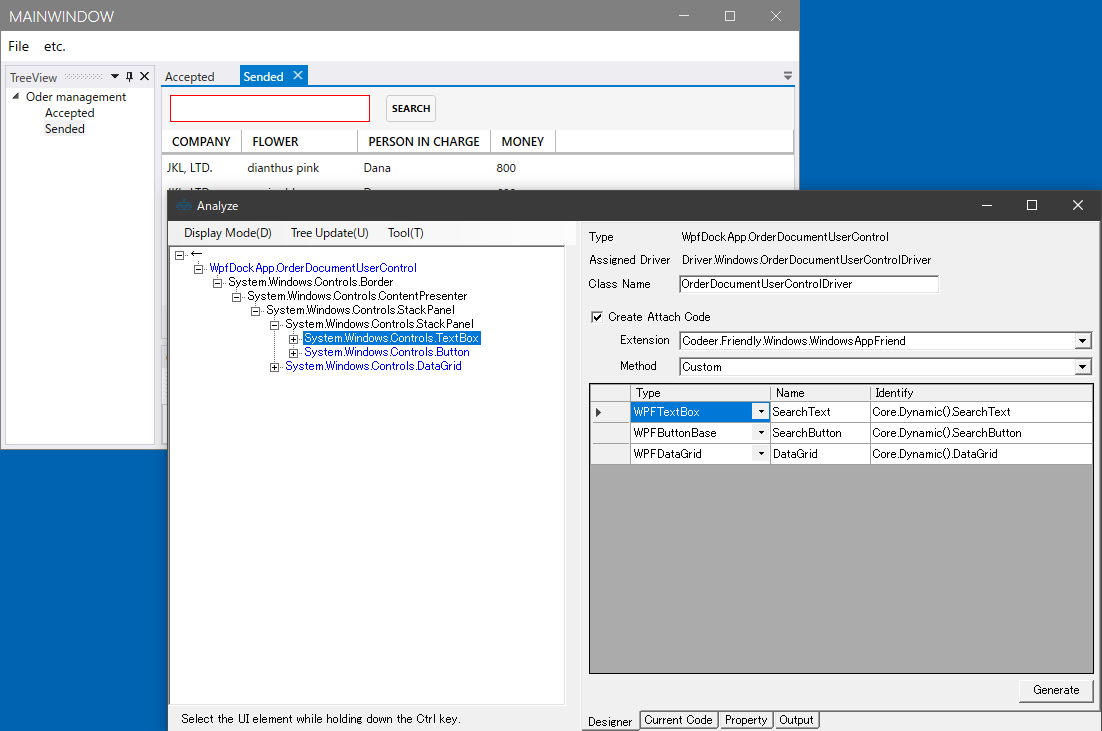
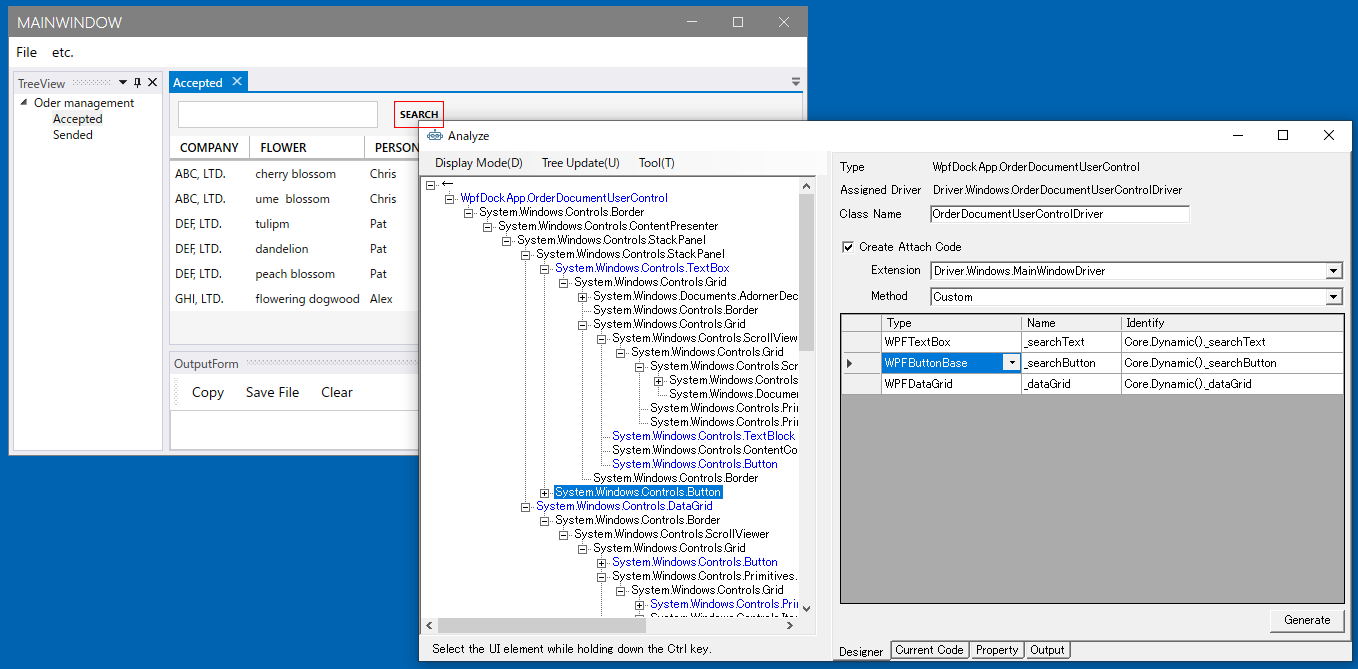
調整

diff --git a/WPF/tutorial/WindowDriver.md b/WPF/tutorial/WindowDriver.md
@@ -33,9 +33,13 @@
 
 UI解析ツリーのルートで右クリックメニューを表示して[Pickup Children]を実行します。
 そうするとグリッドに ControlDriver の割り当たった要素がピックアップされます。
+ピックアップされた要素をグリッド上で選択すると対応するコントロールが赤枠で囲まれます。
+特に使わないものもピックアップされるので必要ないものは削除しておきます。
+タイトルバーのボタン類は使わないので消しておきます。
 
 - 名前はデフォルトでは変数名になっていますが、変更できます。
 - ラベルは Pickup Chidlren では無視されますが、必要ならツリーの要素をダブルクリックすることにより追加で登録できます。
+- グリッド上で要素を選択しDeleteキーを押すことで削除できます。
 
 必要な要素を登録したら[Generate]ボタンを押してコードを生成します。
 [Create Attach Code]はデフォルトの状態で生成してください。
@@ -366,13 +370,13 @@ namespace Driver.Windows
         [UserControlDriverIdentify(CustomMethod = "TryGet")]
         public static OrderDocumentUserControlDriver AttachOrderDocumentUserControl(this WindowsAppFriend app, string identifier)
             => app.GetTopLevelWindows().
-                    SelectMany(e => e.VisualTree().ByType("WpfDockApp.OrderDocumentUserControl").ToArray()).
+                    SelectMany(e => e.GetFromTypeFullName("WpfDockApp.OrderDocumentUserControl")).
                     Where(e => GetTitle(e) == identifier).
                     FirstOrDefault()?.Dynamic();
 
         public static void TryGet(this WindowsAppFriend app, out string[] identifiers)
              => identifiers = app.GetTopLevelWindows().
-                    SelectMany(e => e.VisualTree().ByType("WpfDockApp.OrderDocumentUserControl").ToArray()).
+                    SelectMany(e => e.GetFromTypeFullName("WpfDockApp.OrderDocumentUserControl")).
                     Select(e => GetTitle(e)).
                     ToArray();
 
